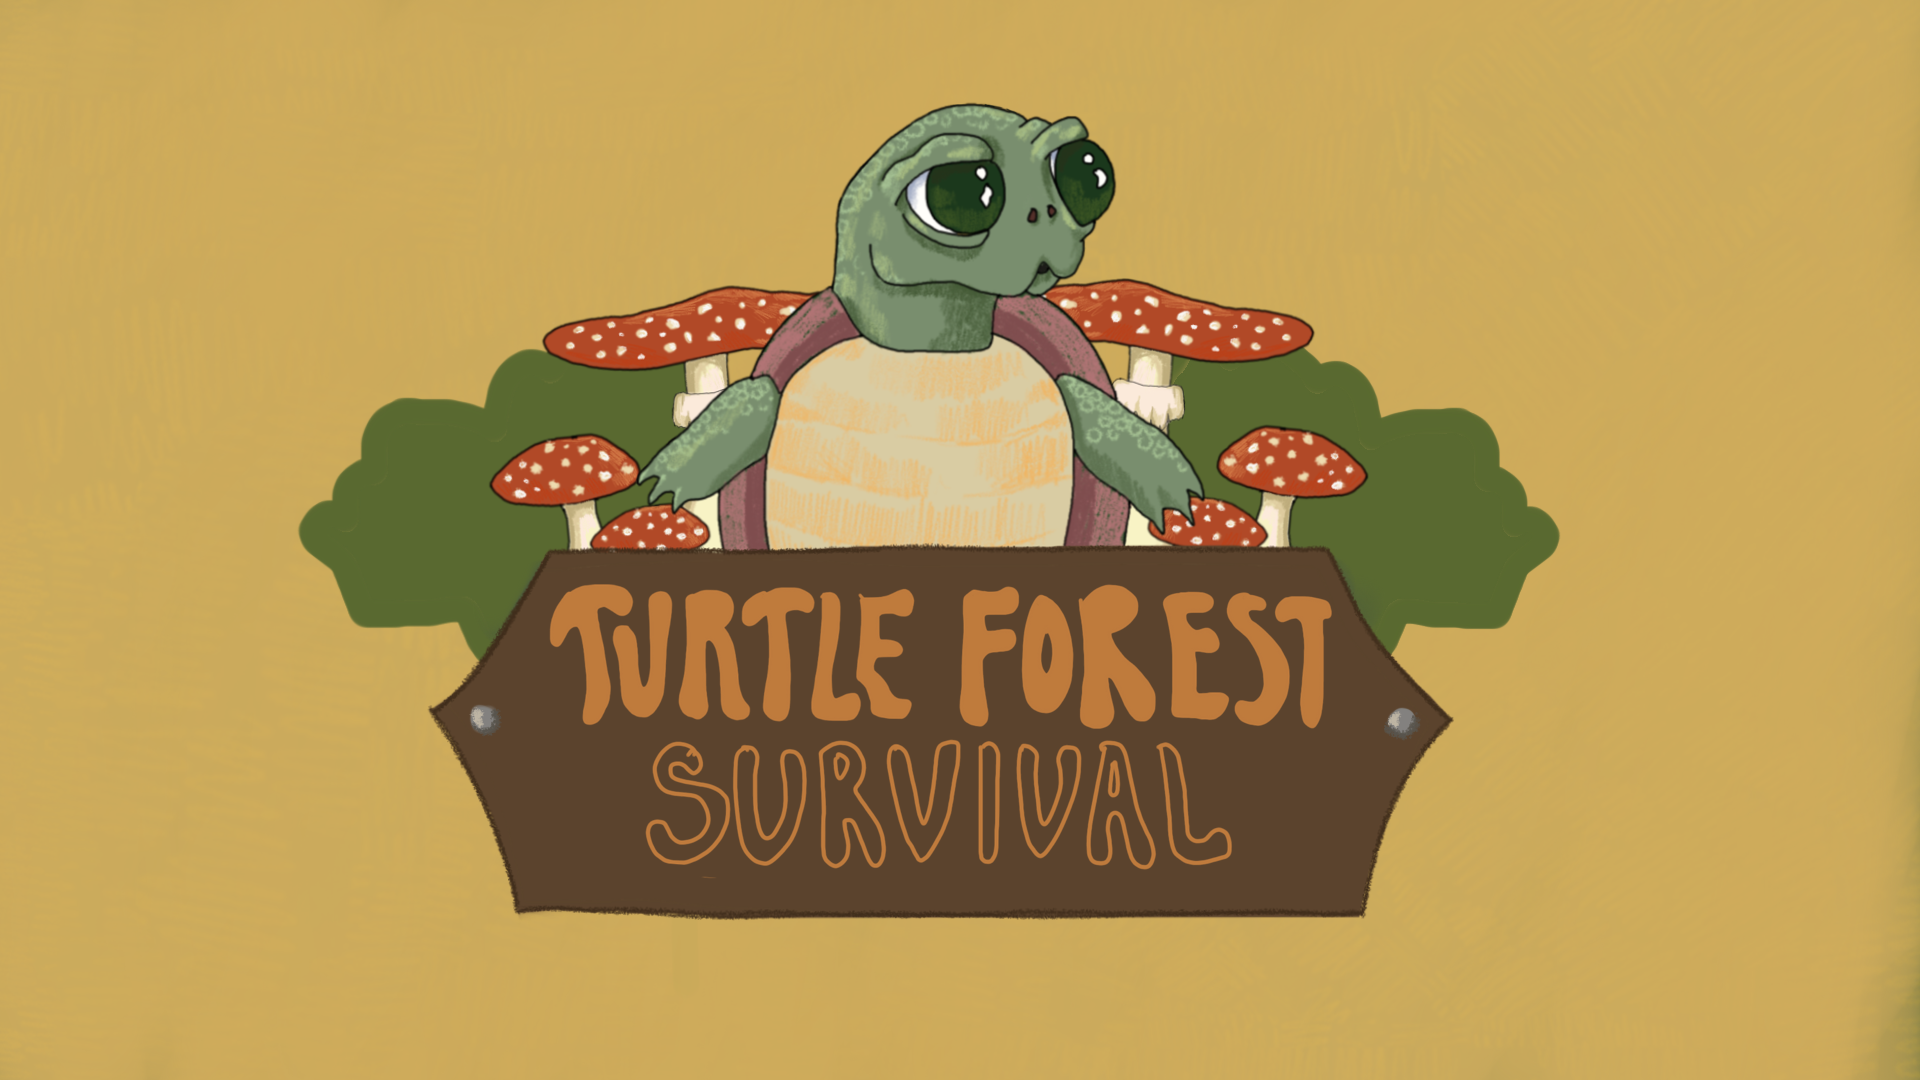
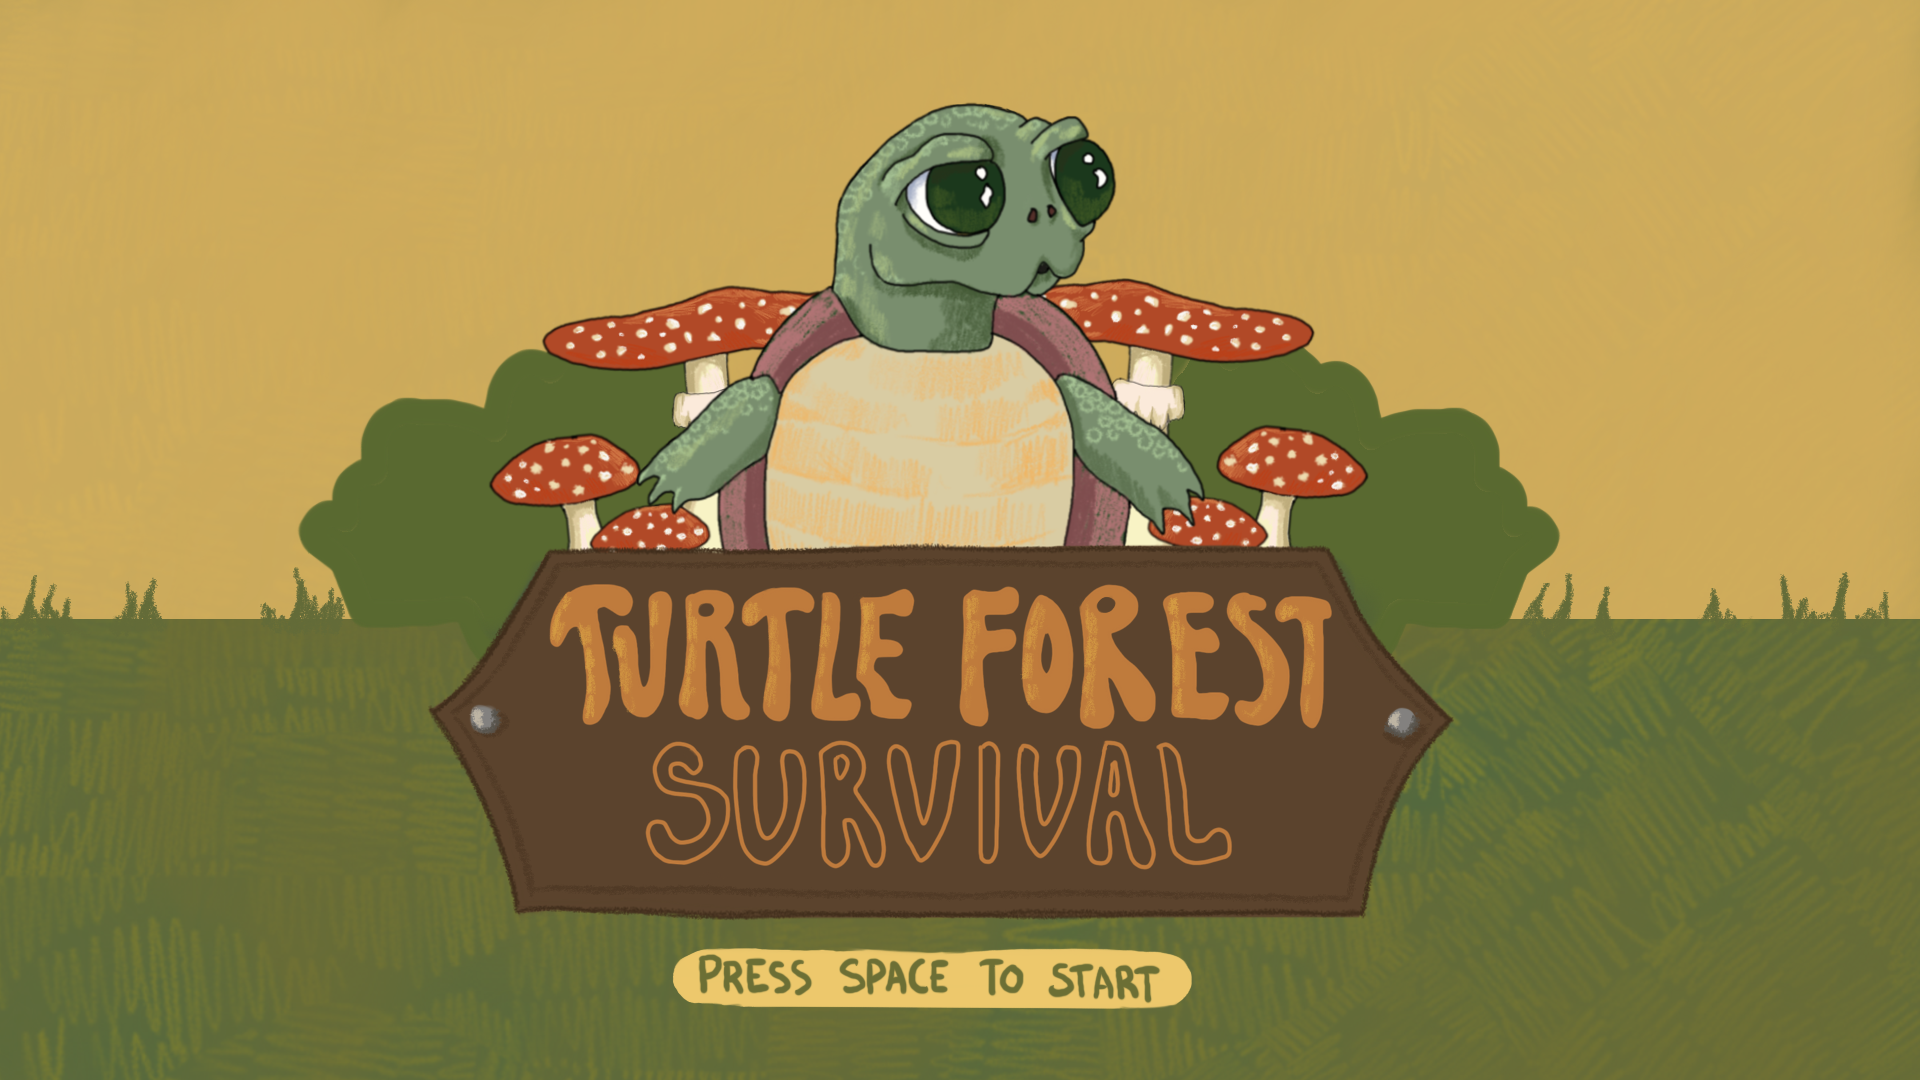
minor tweaks and maybe features

Changed region(s): [[0.0, 0.55, 1.0, 1.0], [0.5625, 0.55, 0.5938, 0.5806], [0.3438, 0.55, 0.375, 0.5806]]

diff --git a/render.cpp b/render.cpp
@@ -38,6 +38,9 @@ Texture2D bathtub5_tex;
 Texture2D donken_1_tex;
 Texture2D donken_2_tex;
 Texture2D donken_3_tex;
+Texture2D bush_tex;
+Texture2D gameover_screen_tex;
+
 
 Texture2D scale(Texture2D tex, int width, int height) {
   Image im = LoadImageFromTexture(tex);
@@ -76,7 +79,8 @@ void init_resources(App const& app)
   donken_1_tex            = LoadTexture("resources/Donken_1.png");
   donken_2_tex            = LoadTexture("resources/Donken_2.png");
   donken_3_tex            = LoadTexture("resources/Donken_3.png");
-  
+  bush_tex                = LoadTexture("resources/Bush.png");
+
   Image grass_image               = LoadImageFromTexture(grass_tex);
   Image turtle_image              = LoadImageFromTexture(turtle_tex);
   Image turtle2_image             = LoadImageFromTexture(turtle2_tex);             
@@ -106,6 +110,7 @@ void init_resources(App const& app)
   Image donken_1_image            = LoadImageFromTexture(donken_1_tex);
   Image donken_2_image            = LoadImageFromTexture(donken_2_tex);
   Image donken_3_image            = LoadImageFromTexture(donken_3_tex);
+  Image bush_image                = LoadImageFromTexture(bush_tex);
   
   int size = app.world.tileSize;
   ImageResize(&grass_image, size, size);
@@ -126,9 +131,13 @@ void init_resources(App const& app)
   ImageResize(&kantarell_image, size, size);
   ImageResize(&sopp_image, size, size);
 
-  int small_size = 0.33 * size;
+  int small_size = (int)(0.33 * (float)size);
   ImageResize(&rock_image, small_size, small_size);
-
+  ImageResize(
+    &bush_image, 
+    (int)((float)small_size * 2.0f), 
+    (int)((float)small_size * 2.0f)
+  );
   int big_size = 2 * size;
   ImageResize(&bathtub1_image, big_size, big_size);
   ImageResize(&bathtub2_image, big_size, big_size);
@@ -139,8 +148,8 @@ void init_resources(App const& app)
   ImageResize(&donken_2_image, big_size, big_size);
   ImageResize(&donken_3_image, big_size, big_size);
   
-  float const turtle_width = app.world.tileSize;
-  float const turtle_height = 1.2f * turtle_width;
+  int const turtle_width = app.world.tileSize;
+  int const turtle_height = (int)(1.2f * (float)turtle_width);
   ImageResize(&turtle_image, turtle_width, turtle_height);
   ImageResize(&turtle2_image, turtle_width, turtle_height);
   ImageResize(&turtle3_image, turtle_width, turtle_height);
@@ -177,6 +186,10 @@ void init_resources(App const& app)
   donken_1_tex            = LoadTextureFromImage(donken_1_image);
   donken_2_tex            = LoadTextureFromImage(donken_2_image);
   donken_3_tex            = LoadTextureFromImage(donken_3_image);
+  bush_tex                = LoadTextureFromImage(bush_image);
+  
+  gameover_screen_tex = LoadTexture("resources/Gameover_Screen.png");
+  scale(gameover_screen_tex, 1920u, 1080u);
 }
 
 void render_scene(App& app, std::set<unsigned int> const& selected_turtles) 
@@ -190,7 +203,6 @@ void render_scene(App& app, std::set<unsigned int> const& selected_turtles)
       Vector2 position = GetScreenToWorld2D(Vector2{(float)screenX, (float)screenY}, app.camera);
       int x = (int)(position.x / app.world.tileSize);
       int y = (int)(position.y / app.world.tileSize);
-      Color color = GREEN;
       auto tileImage = app.world.tileImages.find(std::make_pair(x, y));
       Texture2D* tex = &grass_tex; 
       if (tileImage != app.world.tileImages.end()) {
@@ -216,6 +228,8 @@ void render_scene(App& app, std::set<unsigned int> const& selected_turtles)
         case TileImage::SAND:
           tex = &sand_tex;
           break;
+        default:
+          break;
         }
       }
       Vector2 vec_pos = { (float)x * app.world.tileSize, (float)y * app.world.tileSize };
@@ -224,6 +238,9 @@ void render_scene(App& app, std::set<unsigned int> const& selected_turtles)
       {
         SetRandomSeed(x + y * 1000);
         switch (GetRandomValue(0, 20)) {
+          case 1:
+            DrawTextureEx(bush_tex, vec_pos, 0.0f /*rotation*/, 1.0f /*scale*/, WHITE);
+            break;
           case 4:
             DrawTextureEx(rock_tex, vec_pos, 0.0f /*rotation*/, 1.0f /*scale*/, WHITE);
             break;
@@ -242,27 +259,15 @@ void render_start_menu(RenderTexture2D& render_target)
 {
   BeginTextureMode(render_target);
   ClearBackground(WHITE);
-
   DrawTextureEx(start_screen_tex, Vector2 {0.0f, 0.0f}, 0.0f, 1.0f, WHITE);
+  EndTextureMode();
+}
 
-  char const *start_text= "PRESS SPACE TO START";
-  Font GetFontDefault(void);
-  int const font_size = 50; 
-  int const spacing = 2;
-  Vector2 text_size = MeasureTextEx(
-    GetFontDefault(), 
-    start_text, 
-    font_size, 
-    spacing
-  );
-  // Draw centered text
-  DrawText(
-    start_text, 
-    render_target.texture.width / 2 - (int)(text_size.x / 2.0f), 
-    render_target.texture.height * 0.90 - (int)(text_size.y / 2.0f), 
-    font_size,
-    RED
-  );
+void render_gameover(RenderTexture2D& render_target)
+{
+  BeginTextureMode(render_target);
+  ClearBackground(WHITE);
+  DrawTextureEx(gameover_screen_tex, Vector2 {0.0f, 0.0f}, 0.0f, 1.0f, WHITE);
   EndTextureMode();
 }
   
@@ -449,7 +454,7 @@ void render_mushroom(Entity const& ent) {
       break;
     }
   }
-  DrawTexture(tex, ent.x, ent.y, WHITE);  
+  DrawTexture(tex, (int)ent.x, (int)ent.y, WHITE);  
 }
 
 void render_entities(App& app, std::set<unsigned int> const& selected_turtles) 

diff --git a/running.cpp b/running.cpp
@@ -1,7 +1,6 @@
 #include "raylib.h"
 #include "raymath.h"
 #include "math.h"
-#include "stdio.h"
 #include <algorithm>
 #include <set>
 
@@ -85,7 +84,6 @@ void process_turtle(Entity& ent, float const dt, App& app)
       case TurtleState::COLLECTING: 
       {
         float const collection_speed = 100.0f;
-        Vector2 pos = Vector2{ent.x, ent.y};
         if (ent.touching == BuildingType::STICK)
         {
           app.world.stick_amount += dt * collection_speed;
@@ -127,6 +125,7 @@ void process_turtle(Entity& ent, float const dt, App& app)
           float const building_speed = 1.0f;
           ent.assigned_building->built_percent += building_speed * dt;
         }
+        break;
       }
       case TurtleState::EATING:
       {
@@ -136,15 +135,11 @@ void process_turtle(Entity& ent, float const dt, App& app)
           app.world.burger_amount -= eat_speed * dt;
           ent.hunger += eat_speed * dt;
         }
+        break;
       }
       case TurtleState::IDLE: 
-      {
-        // fallthrough 
-      }
       default: 
-      {
-        // empty
-      }
+        TraceLog(LOG_INFO, "UNKNOWN TURTLE STATE");
     }
   }
 }
@@ -365,6 +360,7 @@ void run_gameloop(App& app)
             app.world.burger_amount += cooking_speed * dt;
             app.world.mushroom_amount -= mushroom_depletion_speed * dt;
           }
+          break;
         }
         default: 
         { 
@@ -436,8 +432,7 @@ void run_gameover(App& app)
     
     // === RENDERING ===
     
-    //TODO: change render-call
-    render_start_menu(app.render_target);
+    render_gameover(app.render_target);
     render_to_screen(app, {0,0,0,0});
   }
 }
@@ -449,13 +444,13 @@ void set_initial_entities(World& world)
   {
     spawn_turtle(
       world,
-      (float)GetRandomValue(0, world.w),
-      (float)GetRandomValue(0, world.h)
+      (float)GetRandomValue(0, (int)world.w),
+      (float)GetRandomValue(0, (int)world.h)
     );
     spawn_egg(
       world,
-      (float)GetRandomValue(0, world.w),
-      (float)GetRandomValue(0, world.h)
+      (float)GetRandomValue(0, (int)world.w),
+      (float)GetRandomValue(0, (int)world.h)
     );
   }
 }

diff --git a/app.cpp b/app.cpp
@@ -4,7 +4,6 @@
 
 #include <vector>
 #include <array>
-#include <iostream>
 
 
 App init_application()
@@ -74,6 +73,9 @@ TileImage get_river_bend_from_neighbors(std::vector<bool> const& neighbors) {
   } else if (neighbors == std::vector<bool>{true, false, true, false}) {
     return TileImage::RIVER_HORIZONTAL;
   } else if (neighbors == std::vector<bool>{false, true, false, true}) {
+    return TileImage::RIVER_VERTICAL;
+  } else {
+    TraceLog(LOG_WARNING, "SHOULD NOT REACH THIS PART OF A RIVER!");
     return TileImage::RIVER_VERTICAL;
   }
 }

diff --git a/render.hpp b/render.hpp
@@ -8,6 +8,7 @@
 
 void render_scene(App&, std::set<unsigned int> const&); 
 void render_start_menu(RenderTexture2D&);
+void render_gameover(RenderTexture2D&);
 void render_to_screen(App&, Rectangle);
 void set_display_resolution(Vector2, App&);
 void init_resources(App const&); 
